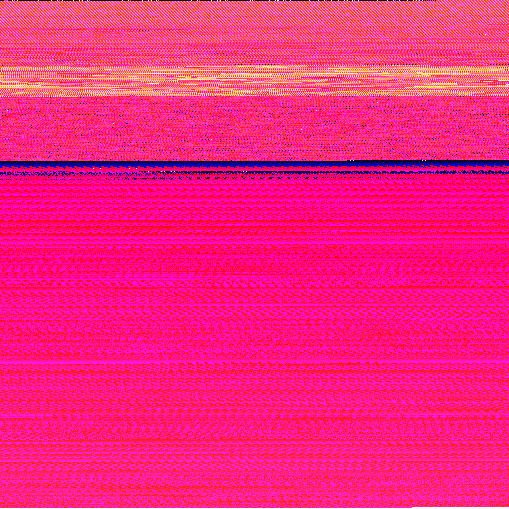
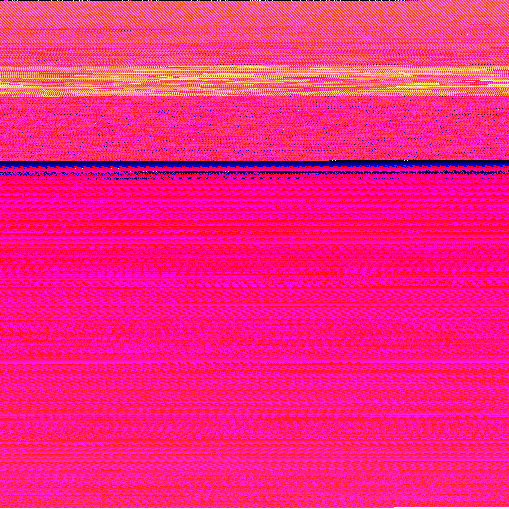
Fix texture loading and fix normalmap texture

diff --git a/objimg.js b/objimg.js
@@ -364,91 +364,75 @@
 
 					if( materialDatas != undefined ){
 
+						var textureLoader = new THREE.TextureLoader();
+
+						var diffuseMap = null;
+						if( materialDatas.diffuse.map != null ){
+
+							diffuseMap = textureLoader.load(this.basePath + materialDatas.diffuse.map);
+							diffuseMap.wrapS = diffuseMap.wrapT = (materialDatas.diffuse.clamp == true) ? THREE.ClampToEdgeWrapping : THREE.RepeatWrapping;
+
+						};
+
+						var ambientMap = null;
+						if( materialDatas.ambient.map != null ){
+
+							ambientMap = textureLoader.load(this.basePath + materialDatas.ambient.map);
+							ambientMap.wrapS = ambientMap.wrapT = (materialDatas.ambient.clamp == true) ? THREE.ClampToEdgeWrapping : THREE.RepeatWrapping;
+
+						};
+
+						var specularMap = null;
+						if( materialDatas.specular.map != null ){
+
+							specularMap = textureLoader.load(this.basePath + materialDatas.specular.map);
+							specularMap.wrapS = specularMap.wrapT = (materialDatas.specular.clamp == true) ? THREE.ClampToEdgeWrapping : THREE.RepeatWrapping;
+
+						};
+
+						var normalMap = null;
+						if( materialDatas.normal.map != null ){
+
+							normalMap = textureLoader.load(this.basePath + materialDatas.normal.map);
+							normalMap.wrapS = normalMap.wrapT = (materialDatas.normal.clamp == true) ? THREE.ClampToEdgeWrapping : THREE.RepeatWrapping;
+
+						};
+
+						var bumpMap = null;
+						if( materialDatas.bump.map != null ){
+
+							bumpMap = textureLoader.load(this.basePath + materialDatas.bump.map);
+							bumpMap.wrapS = bumpMap.wrapT = (materialDatas.bump.clamp == true) ? THREE.ClampToEdgeWrapping : THREE.RepeatWrapping;
+
+						};
+
+						var opacityMap = null
+						if( materialDatas.opacity.map != null ){
+
+							opacityMap = textureLoader.load(this.basePath + materialDatas.opacity.map);
+							opacityMap.wrapS = opacityMap.wrapT = (materialDatas.opacity.clamp == true) ? THREE.ClampToEdgeWrapping : THREE.RepeatWrapping;
+
+						};
+
 						material = new THREE.MeshPhongMaterial({
+							aoMap: ambientMap,
 							color: new THREE.Color(materialDatas.diffuse.r, materialDatas.diffuse.g, materialDatas.diffuse.b),
+							map: diffuseMap,
+							specularMap: specularMap,
 							specular: new THREE.Color(materialDatas.specular.r, materialDatas.specular.g, materialDatas.specular.b),
 							shininess: materialDatas.specular.force,
-							normalScale: new THREE.Vector2(1.0, 1.0),
+							normalMap: normalMap,
+							normalScale: new THREE.Vector2(0.5, 0.5),
+							bumpMap: bumpMap,
 							bumpScale: 1.0,
 							opacity: materialDatas.opacity.value,
+							alphaMap: opacityMap,
 							alphaTest: 0,
 							transparent: ((materialDatas.opacity.value < 1.0 || materialDatas.opacity.map != null) ? true : false),
 							combine: THREE.MultiplyOperation,
 							shading: (materialDatas.smooth == true ? THREE.SmoothShading : THREE.FlatShading),
 							fog: true
 						});
-
-						var textureLoader = new THREE.TextureLoader();
-
-						if( materialDatas.diffuse.map != null ){
-
-							textureLoader.load(this.basePath + materialDatas.diffuse.map, function( texture ){
-
-								texture.wrapS = texture.wrapT = (materialDatas.diffuse.clamp == true) ? THREE.ClampToEdgeWrapping : THREE.RepeatWrapping;
-
-								material.map = texture;
-
-							});
-
-						};
-
-						if( materialDatas.ambient.map != null ){
-
-							textureLoader.load(this.basePath + materialDatas.ambient.map, function( texture ){
-
-								texture.wrapS = texture.wrapT = (materialDatas.ambient.clamp == true) ? THREE.ClampToEdgeWrapping : THREE.RepeatWrapping;							
-
-								material.aoMap = texture;
-
-							});
-
-						};
-
-						if( materialDatas.specular.map != null ){
-
-							textureLoader.load(this.basePath + materialDatas.specular.map, function( texture ){
-
-								texture.wrapS = texture.wrapT = (materialDatas.specular.clamp == true) ? THREE.ClampToEdgeWrapping : THREE.RepeatWrapping;							
-
-								material.specularMap = texture;
-
-							});
-
-						};
-
-						if( materialDatas.normal.map != null ){
-
-							textureLoader.load(this.basePath + materialDatas.bump.map, function( texture ){
-
-								texture.wrapS = texture.wrapT = (materialDatas.normal.clamp == true) ? THREE.ClampToEdgeWrapping : THREE.RepeatWrapping;
-
-								material.normalMap = texture;
-
-							});
-
-						};
-
-						if( materialDatas.bump.map != null ){
-
-							textureLoader.load(this.basePath + materialDatas.bump.map, function( texture ){
-
-								texture.wrapS = texture.wrapT = (materialDatas.bump.clamp == true) ? THREE.ClampToEdgeWrapping : THREE.RepeatWrapping;
-
-							});
-
-						};
-
-						if( materialDatas.opacity.map != null ){
-
-							textureLoader.load(this.basePath + materialDatas.opacity.map, function( texture ){
-	
-								texture.wrapS = texture.wrapT = (materialDatas.opacity.clamp == true) ? THREE.ClampToEdgeWrapping : THREE.RepeatWrapping;
-
-								material.alphaMap = texture;
-
-							});
-
-						};
 
 					}
 					else {

diff --git a/README.md b/README.md
@@ -53,7 +53,7 @@ var model = new OBJImg({
  - **getObject3D:** [callback] return a complete THREE-JS `Object3D` (require THREE-JS)
  - **getSimpleObject3D:** [callback] return a THREE-JS `Object3D` ignoring groups (require THREE-JS)
 
-#### Use with THREE-JS
+#### Use with THREE-JS (>= r73)
 ```javascript
 var model = new OBJImg({
 	image: "path/to/model.png",
